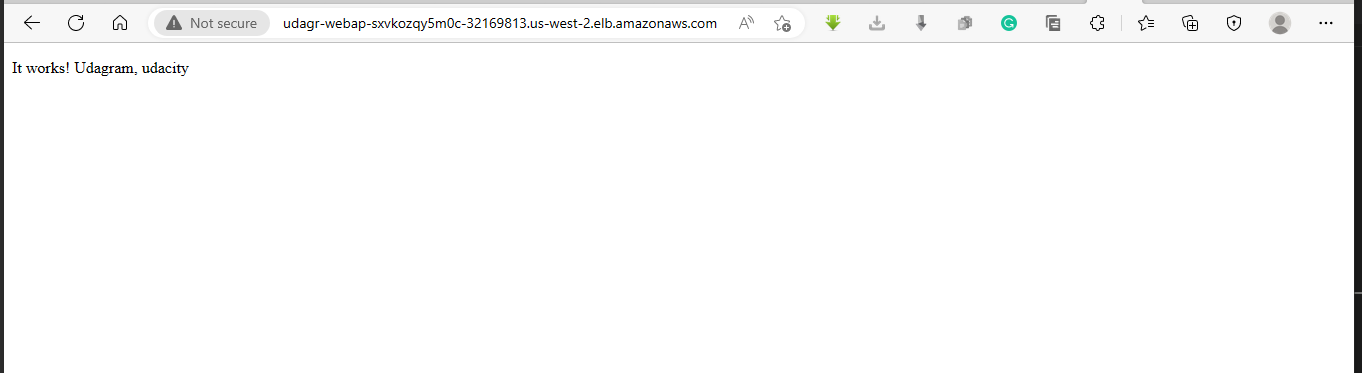
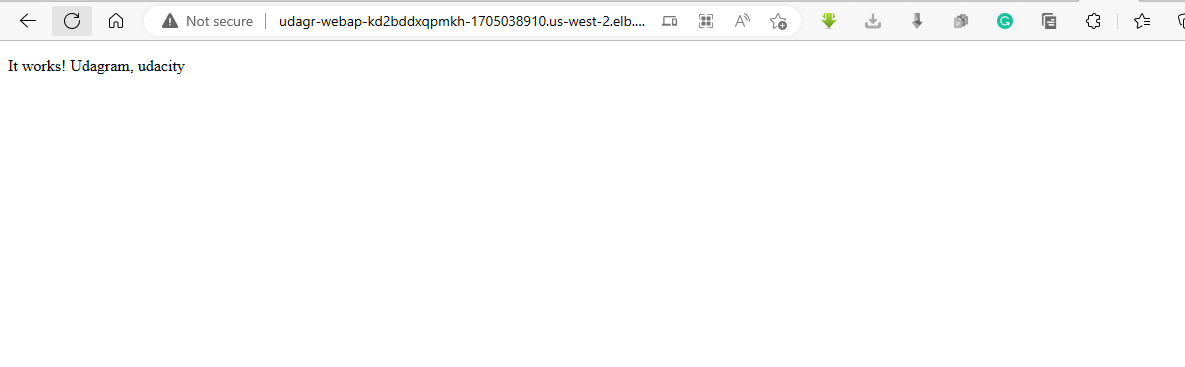
update for resubmission

Changed region(s): [[0.0, 0.0, 1.0, 1.0]]

diff --git a/README.md b/README.md
@@ -5,6 +5,6 @@
 In this project, I deployed a highly availability web app using Cloudformation on the Amazon CLI and my IAM user configured on us-west-2 (Oregon).
 
 <h2>Summary</h2>
-All resources were properly deployed, tested and deleted with the DNS of the Load Balancer as: "http://udagr-webap-sxvkozqy5m0c-32169813.us-west-2.elb.amazonaws.com/"
+All resources were properly deployed, tested and deleted with the DNS of the Load Balancer as: "udagr-WebAp-KD2BDDXQPMKH-1705038910.us-west-2.elb.amazonaws.com"
 
 You can find the attached as the credentials and screenshots of my deployment
